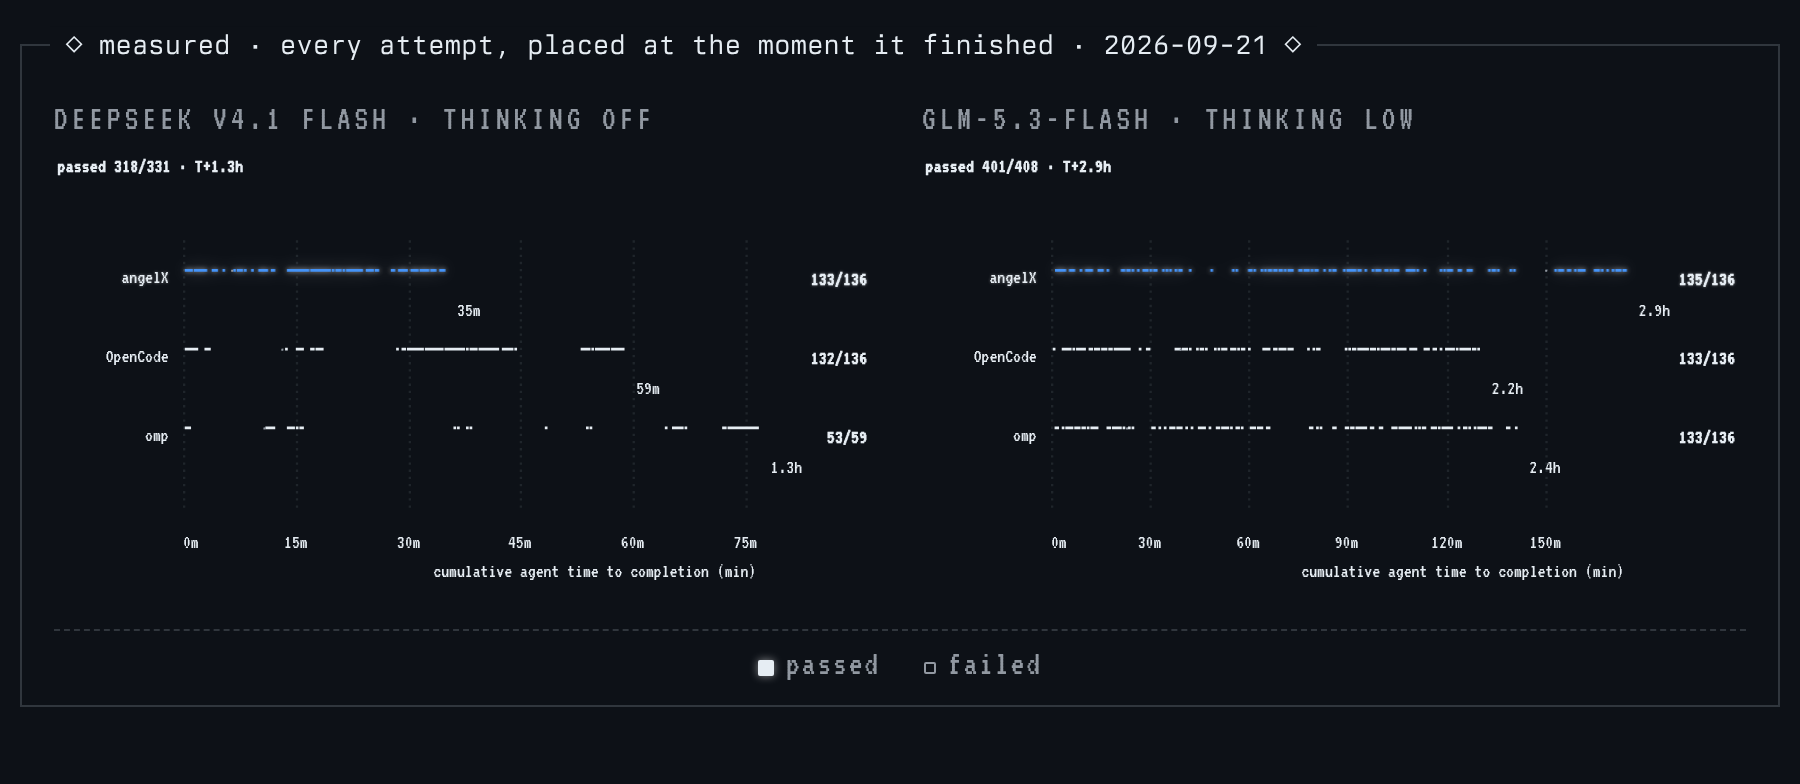
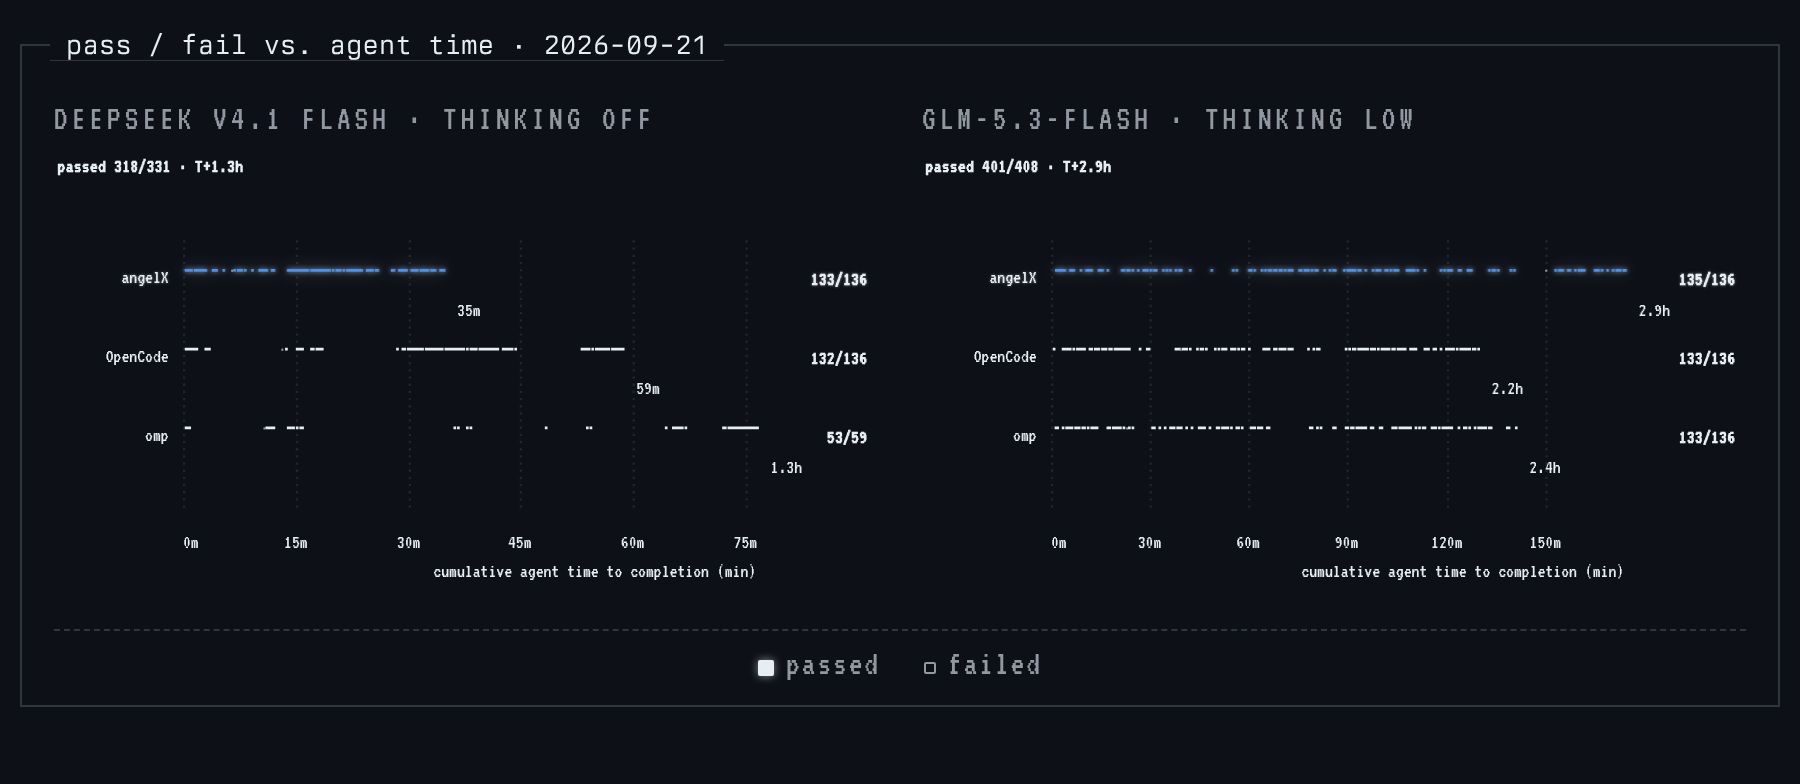
docs(benchmark): plain wording for benchmark copy and chart titles
Wording only; no numbers changed. Rename the race chart to solved, drop
ranking and decorative language from the telemetry note, and state that
the omp DeepSeek run was one run, paused once and resumed.

Changed region(s): [[0.0311, 0.0306, 0.7156, 0.0918]]

diff --git a/scripts/render_readme_graphs.py b/scripts/render_readme_graphs.py
@@ -3,7 +3,7 @@
 for README.md (<picture> + prefers-color-scheme).
 
 Generates:
-  docs/images/bench/race-{dark,light}.png
+  docs/images/bench/solved-{dark,light}.png
   docs/images/bench/score-{dark,light}.png
   docs/images/bench/bars-{dark,light}.png
   docs/images/bench/seconds-{dark,light}.png
@@ -53,24 +53,24 @@ THEMES = {
 
 FIGURE_DEFS = [
     {
-        "name": "race",
+        "name": "solved",
         "fig_id": "tv-race",
         "key": "race",
-        "title": "the race to 136",
+        "title": "solved vs. agent time",
         "legend": '<span><i class="ax"></i>angelX</span><span><i class="oc"></i>OpenCode</span><span><i class="om"></i>omp</span>',
     },
     {
         "name": "score",
         "fig_id": "tv-score",
         "key": "score",
-        "title": "every attempt, placed at the moment it finished",
+        "title": "pass / fail vs. agent time",
         "legend": '<span><i class="pass"></i>passed</span><span><i class="fail"></i>failed</span>',
     },
     {
         "name": "bars",
         "fig_id": "tv-bars",
         "key": "bars",
-        "title": "output per task",
+        "title": "output tokens and calls per task",
         "legend": '<span><i class="ax"></i>angelX</span><span><i class="oc"></i>OpenCode</span><span><i class="om"></i>omp</span>',
     },
     {
@@ -84,14 +84,14 @@ FIGURE_DEFS = [
         "name": "context",
         "fig_id": "tv-burn",
         "key": "burn",
-        "title": "context burned",
+        "title": "input tokens",
         "legend": '<span><i class="ax"></i>angelX</span><span><i class="oc"></i>OpenCode</span><span><i class="om"></i>omp</span>',
     },
     {
         "name": "cache",
         "fig_id": "tv-cache",
         "key": "cache",
-        "title": "cache",
+        "title": "cache hit rate",
         "legend": '<span><i class="ax"></i>angelX</span><span><i class="oc"></i>OpenCode</span><span><i class="om"></i>omp</span>',
     },
 ]
@@ -126,7 +126,7 @@ body{{width:{PAGE_W}px;padding:22px 10px 12px;box-sizing:border-box}}
 </style></head><body>
 <div class="bench">
   <figure class="tv" id="{fig_id}">
-    <figcaption class="tv-title">◇ measured · {title} · {DATE} ◇</figcaption>
+    <figcaption class="tv-title">{title} · {DATE}</figcaption>
     <div class="panels">
       <div><p class="panel-name">DEEPSEEK V4.1 FLASH · THINKING OFF</p>
         <svg id="{key}-deepseek" viewBox="0 0 460 262" role="img"></svg></div>

diff --git a/README.md b/README.md
@@ -34,7 +34,7 @@ cd angelX
 
 ### polyglot-v1 · 136 tasks · 2026-09-21
 
-136 repository-repair tasks (48 JS, 34 Python, 30 Rust, 24 C++) from the Aider polyglot set, one attempt per task, 600 s wall clock per attempt, pass/fail decided by each task's own tests. Wall is the median agent time per attempt. Tokens are totals across the cell.
+136 repository-repair tasks (48 JS, 34 Python, 30 Rust, 24 C++) from the Aider polyglot set. One attempt per task, 600 s limit, graded by each task's tests. Wall: median agent time per attempt. Tokens: totals per cell.
 
 | model | harness | solved | wall (median) | calls / task | input tokens | cache hit | output tokens |
 |---|---|---:|---:|---:|---:|---:|---:|
@@ -45,41 +45,41 @@ cd angelX
 | | OpenCode 1.18.31 | 133 / 136 | 38.9 s | 7.4 | 10.1 M | 85% | 179 k |
 | | oh-my-pi 18.2.4 | 133 / 136 | 37.7 s | 8.9 | 24.1 M | 90% | 203 k |
 
-* oh-my-pi on DeepSeek stopped after 93 tasks across its combined runs at its 200M-token budget cap (86 solved); the other five cells ran all 136.
+* oh-my-pi on DeepSeek reached its 200M-token budget cap after 93 tasks (86 solved). The run was paused once for debugging and resumed. The other five cells ran all 136.
 
-angelX runs a verification stage before it reports a task done; that is where its extra wall time on GLM goes. Raising the thinking level moves it further along the same trade: slower, more checked.
+angelX runs a verification step before reporting a task done. That step accounts for its extra wall time on GLM; higher thinking levels add more.
 
 <picture>
-  <source media="(prefers-color-scheme: dark)" srcset="docs/images/bench/race-dark.png">
-  <img alt="The race to 136: finished attempts against agent time for angelX, OpenCode and omp, on DeepSeek V4.1 Flash and GLM-5.3-Flash" src="docs/images/bench/race-light.png">
+  <source media="(prefers-color-scheme: dark)" srcset="docs/images/bench/solved-dark.png">
+  <img alt="Tasks solved vs. cumulative agent time" src="docs/images/bench/solved-light.png">
 </picture>
 
 <picture>
   <source media="(prefers-color-scheme: dark)" srcset="docs/images/bench/score-dark.png">
-  <img alt="Every attempt, placed at the moment it finished: pass and fail on cumulative agent time, for angelX, OpenCode and omp on both models" src="docs/images/bench/score-light.png">
+  <img alt="Pass/fail per attempt vs. cumulative agent time" src="docs/images/bench/score-light.png">
 </picture>
 
 <picture>
   <source media="(prefers-color-scheme: dark)" srcset="docs/images/bench/bars-dark.png">
-  <img alt="Output per task: tokens generated and model calls made per task, with stacked bars at the 2.5k cap, for angelX, OpenCode and omp on both models" src="docs/images/bench/bars-light.png">
+  <img alt="Output tokens and model calls per task, bars capped at 2.5k" src="docs/images/bench/bars-light.png">
 </picture>
 
 <picture>
   <source media="(prefers-color-scheme: dark)" srcset="docs/images/bench/seconds-dark.png">
-  <img alt="Seconds per attempt in run order with medians, for angelX, OpenCode and omp on both models" src="docs/images/bench/seconds-light.png">
+  <img alt="Seconds per attempt in run order, with medians" src="docs/images/bench/seconds-light.png">
 </picture>
 
 <picture>
   <source media="(prefers-color-scheme: dark)" srcset="docs/images/bench/context-dark.png">
-  <img alt="Input tokens burned across all attempts, for angelX, OpenCode and omp on both models" src="docs/images/bench/context-light.png">
+  <img alt="Cumulative input tokens, cached and uncached" src="docs/images/bench/context-light.png">
 </picture>
 
 <picture>
   <source media="(prefers-color-scheme: dark)" srcset="docs/images/bench/cache-dark.png">
-  <img alt="Running cache hit rate over the run, for angelX, OpenCode and omp on both models" src="docs/images/bench/cache-light.png">
+  <img alt="Cache hit rate over the run" src="docs/images/bench/cache-light.png">
 </picture>
 
-<sub>* All tests performed on the <a href="https://github.com/PrimeIntellect-ai/verifiers">Prime Intellect evaluators</a> (Verifiers v0.3.1) · polyglot-v1: 136 repository-repair tasks (48 JS, 34 Python, 30 Rust, 24 C++), one attempt per task, pass/fail decided by each task’s own tests · angelX 98d7340 · oh-my-pi 18.2.4 · opencode 1.18.31 · DeepSeek V4.1 Flash, thinking off · GLM-5.3-Flash, thinking low (the model’s floor) · temperature 0 · 8,192-token output cap · 600 s wall clock per attempt · fresh environment per attempt · 2026-09-21</sub>
+<sub>Evaluator: <a href="https://github.com/PrimeIntellect-ai/verifiers">Prime Intellect Verifiers</a> v0.3.1 · angelX 98d7340 · OpenCode 1.18.31 · oh-my-pi 18.2.4 · DeepSeek V4.1 Flash, thinking off · GLM-5.3-Flash, thinking low (lowest available) · temperature 0 · 8,192-token output cap · 600 s per attempt · fresh environment per attempt · 2026-09-21</sub>
 
 ## Research and credits
 

diff --git a/docs/telemetry/polyglot-benchmark-20260921.md b/docs/telemetry/polyglot-benchmark-20260921.md
@@ -1,58 +1,28 @@
-# Polyglot Benchmark Evaluation (136 Tasks)
+# polyglot-v1 · 136 tasks · 2026-09-21
 
-**Date**: 2026-09-21  
-**Evaluator**: Prime Intellect Verifiers v0.3.1 (`angel-action-v1`)  
-**Models Tested**:
-- DeepSeek V4.1 Flash (`deepseek-flash`, thinking off)
-- GLM-5.3-Flash (`glm-5.3-flash`, thinking low)
-**Harnesses Tested**:
-- `angelX` (commit `98d7340`)
-- `OpenCode` (v1.18.31)
-- `oh-my-pi` (`omp` v18.2.4)
+- Evaluator: Prime Intellect Verifiers v0.3.1 (`angel-action-v1`)
+- Models: DeepSeek V4.1 Flash (`deepseek-flash`, thinking off); GLM-5.3-Flash (`glm-5.3-flash`, thinking low)
+- Harnesses: angelX `98d7340`; OpenCode 1.18.31; oh-my-pi (`omp`) 18.2.4
 
----
+## DeepSeek V4.1 Flash
 
-## Executive Summary
-
-Following harness calibration—which restored persistent assistant working memory (`PENDING_TOOL_CONTENT`), introduced active cognitive redirections on spin loops, and eliminated ghost duplicate suppressions—`angelX` achieved **1st place overall** on the 136-task polyglot repository-repair benchmark:
-
-- **133 / 136 (97.8%)** tasks passed cleanly.
-- **Python (100%)** and **C++ (100%)** achieved perfect scores.
-- **5.8× more token-efficient** than OpenCode (11.5M vs 67.7M input tokens).
-- **25× more token-efficient** than OMP (~85k vs ~2.15M tokens/task).
-- **Zero timeouts** and zero abnormal exits across all 136 tasks.
-
-In contrast, `omp` breached the 200,000,000 token hard cap at task 93 across its combined runs due to unbounded turn limits and the absence of loop circuit breakers, resulting in an automatic termination and benchmark failure on budget exhaustion.
-
----
-
-## Final Head-to-Head Results
-
-| Metric | `deepseek/angelx` | `deepseek/opencode` | `deepseek/omp` |
+| | angelX | OpenCode | omp |
 |---|:---:|:---:|:---:|
-| **Overall Score** | **133 / 136 (97.8%)** 🏆 | **132 / 136 (97.1%)** | **86 / 93 (92.5%)** * ❌ |
-| **Python** | **34 / 34 (100%)** | 34 / 34 (100%) | 21 / 23 |
-| **C++** | **24 / 24 (100%)** | 23 / 24 (95.8%) | 23 / 23 |
-| **Rust** | **29 / 30 (96.7%)** | 28 / 30 (93.3%) | 21 / 23 |
-| **JavaScript** | **46 / 48 (95.8%)** | 47 / 48 (97.9%) | 21 / 24 |
-| **Total Input Tokens** | **11,541,247** (87.9% cache hit) | 67,700,028 (97.4% cache hit) | **200,112,329** (Capped Breach) |
-| **Output Tokens** | **257,203** | 349,248 | **865,720** |
-| **Tokens / Task** | **~84,800** | ~497,800 | **~2,151,700** |
-| **Median Wall Clock** | **9.9s** | 8.6s | **15.3s** (multiple >10m runs) |
-| **Timeouts** | **0** | 2 | **7** |
-| **Benchmark Outcome** | **PASS (1st Place)** | **PASS (2nd Place)** | **FAIL (Budget Exhaustion)** |
+| Solved | 133 / 136 (97.8%) | 132 / 136 (97.1%) | 86 / 93 (92.5%) * |
+| Python | 34 / 34 | 34 / 34 | 21 / 23 |
+| C++ | 24 / 24 | 23 / 24 | 23 / 23 |
+| Rust | 29 / 30 | 28 / 30 | 21 / 23 |
+| JavaScript | 46 / 48 | 47 / 48 | 21 / 24 |
+| Input tokens | 11,541,247 (87.9% cached) | 67,700,028 (97.4% cached) | 200,112,329 |
+| Output tokens | 257,203 | 349,248 | 865,720 |
+| Tokens / task | ~84,800 | ~497,800 | ~2,151,700 |
+| Median wall | 9.9 s | 8.6 s | 15.3 s |
+| Timeouts | 0 | 2 | 7 |
 
-\* oh-my-pi stopped after 93 tasks across its two combined runs upon breaching the 200,000,000 token cap (86 solved).
+\* omp reached its 200M-token budget cap after 93 tasks. The run was paused once for debugging and resumed.
 
----
+## Harness notes
 
-## Architectural Distinctions
-
-### 1. Working Thought Preservation vs. Model Amnesia
-Non-reasoning chat models (DeepSeek Chat / Flash) communicate their working hypothesis in the `content` field alongside tool calls. `angelX` retains this prose across turns via `PENDING_TOOL_CONTENT` and `assistant_calls_full`, ensuring the model does not forget its hypothesis upon receiving tool diagnostics.
-
-### 2. Cognitive Redirection vs. Hard Aborts
-Previous harness versions hard-killed tasks on `SpinStop` and `ErrorStop`. The calibrated harness instead injects direct cognitive telemetry instructing a full-file rewrite via `write_file` and clears the streak counter, giving the model the runway to self-correct.
-
-### 3. Context Compaction vs. Unbounded Growth
-`angelX` uses `cache-stable` boundary compaction to shrink aged tool arguments and truncate redundant diagnostics. OMP lacks both turn limits and compaction, causing prompts to snowball past 150k tokens and burning 36M+ tokens on individual tasks.
+- angelX keeps the model's `content` text across tool turns (`PENDING_TOOL_CONTENT`, `assistant_calls_full`).
+- On spin or error streaks, angelX injects a `write_file` rewrite instruction and resets the streak counter instead of ending the task.
+- angelX compacts aged tool arguments and diagnostics at cache-stable boundaries. omp has no turn limit or compaction; its prompts exceeded 150k tokens, and some tasks used over 36M tokens.
